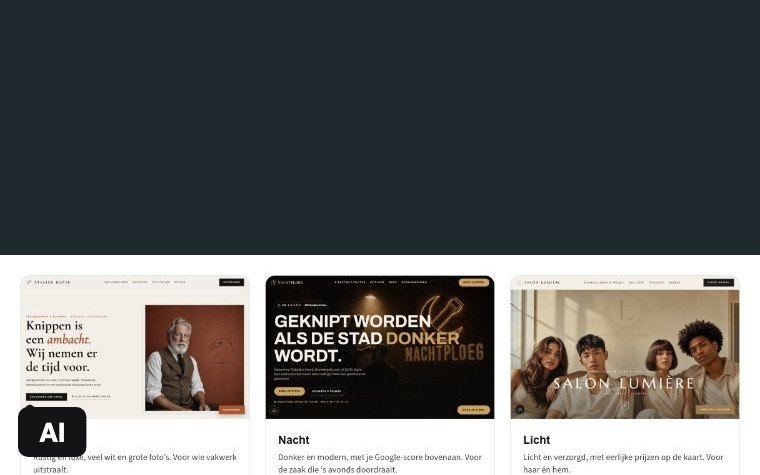
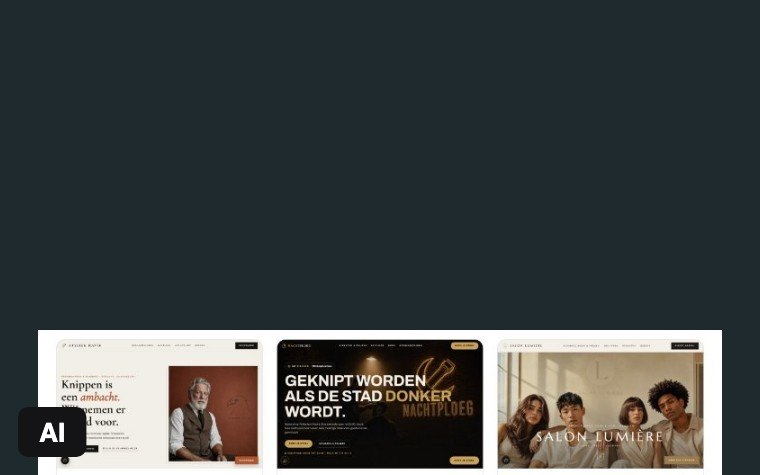
The website tile's hover link stands on its band too: from 768 px the band reaches under 'Meer info', and the 1280 picture puts KapperAI's three designs in the strip below it (the link stood on the Editorial design's headline)

diff --git a/index.html b/index.html
@@ -1274,7 +1274,7 @@
     .svc-card:nth-child(7) .svc-sticker{--rot:-6deg;--tx:-10px;--ty:-25px;top:-15px;right:15px}
     .svc-card:nth-child(8) .svc-sticker{--rot:8deg;--tx:-10px;--ty:-25px;top:-10px;right:15px}
     .svc-card:nth-child(9) .svc-sticker{--rot:-4deg;--tx:-15px;--ty:-20px;top:-10px;right:-20px}
-    .svc-card:nth-child(9) .svc-overlay{background:linear-gradient(to bottom,rgb(31,42,46) 0%,rgb(31,42,46) 50%,rgba(31,42,46,0.8) 58%,rgba(31,42,46,0.7) 100%)}
+    .svc-card:nth-child(9) .svc-overlay{background:linear-gradient(to bottom,rgb(31,42,46) 0%,rgb(31,42,46) 50%,rgba(31,42,46,0.8) 58%,rgba(31,42,46,0.7) 100%)}@media(min-width:768px){.svc-card:nth-child(9) .svc-overlay{background:linear-gradient(to bottom,rgb(31,42,46) 0%,rgb(31,42,46) 61%,rgba(31,42,46,0.8) 66%,rgba(31,42,46,0.6) 100%)}}
     @media(max-width:768px){.services-sticker-grid{grid-template-columns:1fr 1fr}.svc-sticker{display:none!important}}
     </style>
 
